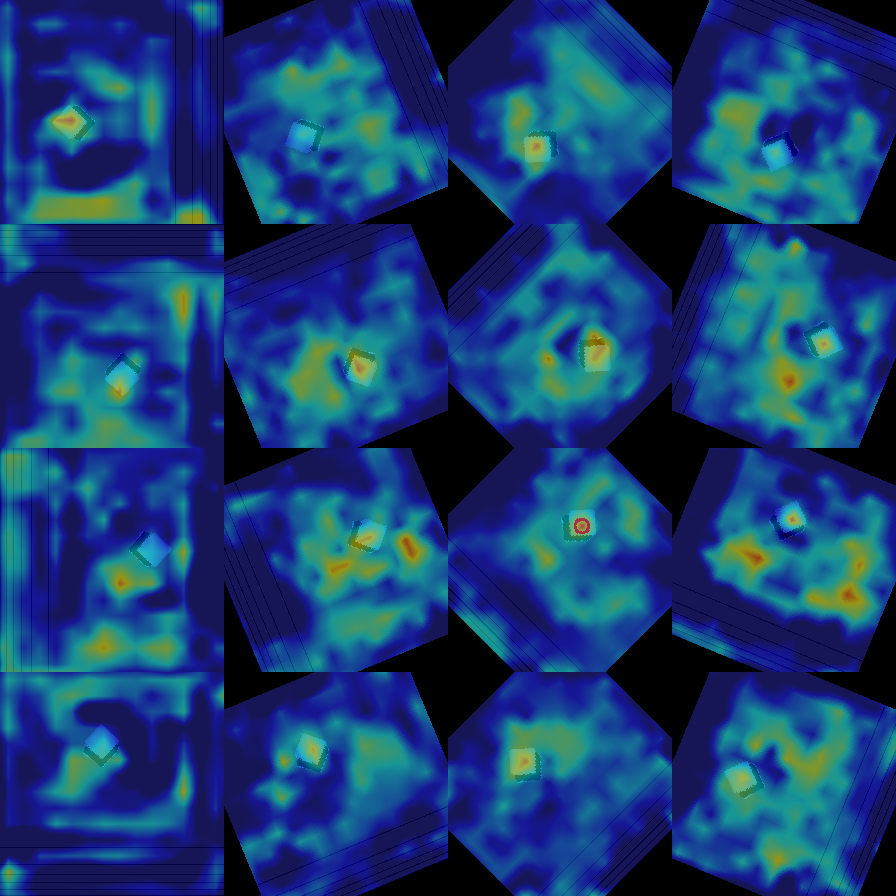
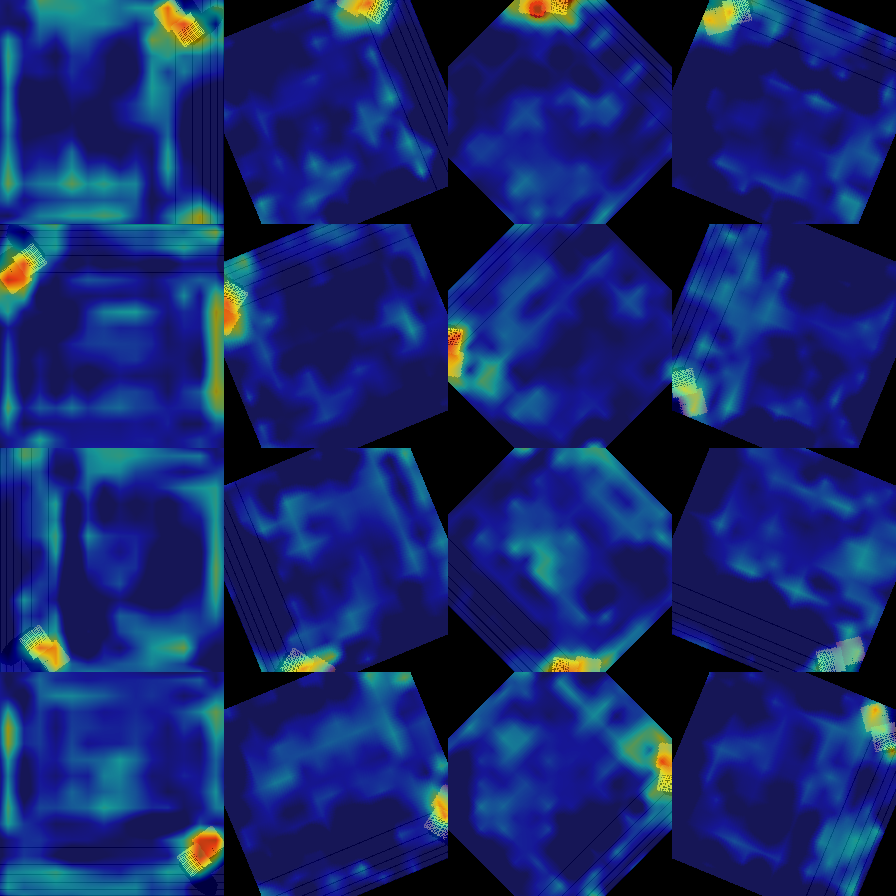
add place in robot.py

diff --git a/robot.py b/robot.py
@@ -76,7 +76,7 @@ class Robot(object):
                 file_content_curr_object = file_content[object_idx].split()
                 self.test_obj_mesh_files.append(os.path.join(self.obj_mesh_dir,file_content_curr_object[0]))
                 self.test_obj_mesh_colors.append([float(file_content_curr_object[1]),float(file_content_curr_object[2]),float(file_content_curr_object[3])])
-                self.test_obj_positions.append([float(file_content_curr_object[4]),float(file_content_curr_object[5]),float(file_content_curr_object[6])])
+                self.test_obj_positions.append([float(file_content_curr_object[4]),float(file_content_curr_object[5]),3.21023232320e-01])
                 self.test_obj_orientations.append([float(file_content_curr_object[7]),float(file_content_curr_object[8]),float(file_content_curr_object[9])])
             file.close()
             self.obj_mesh_color = np.asarray(self.test_obj_mesh_colors)
@@ -145,10 +145,8 @@ class Robot(object):
         vrep.simxStopSimulation(self.sim_client, vrep.simx_opmode_blocking)
         vrep.simxStartSimulation(self.sim_client, vrep.simx_opmode_blocking)
         sim_ret, self.RG2_tip_handle = vrep.simxGetObjectHandle(self.sim_client, 'UR5_tip', vrep.simx_opmode_blocking)
-        print(1)
         sim_ret, gripper_position = vrep.simxGetObjectPosition(self.sim_client, self.RG2_tip_handle, -1, vrep.simx_opmode_blocking)
-        print(2)
-        while gripper_position[2] > 0.8: # V-REP bug requiring multiple starts and stops to restart
+        while gripper_position[2] > 0.7: # V-REP bug requiring multiple starts and stops to restart
             vrep.simxStopSimulation(self.sim_client, vrep.simx_opmode_blocking)
             vrep.simxStartSimulation(self.sim_client, vrep.simx_opmode_blocking)
             time.sleep(1)
@@ -445,6 +443,73 @@ class Robot(object):
             grasped_object_ind = np.argmax(object_positions)
             grasped_object_handle = self.object_handles[grasped_object_ind]
             vrep.simxSetObjectPosition(self.sim_client,grasped_object_handle,-1,(-0.55, 1.5 + 0.01*float(grasped_object_ind), 0.1),vrep.simx_opmode_blocking)
+
+        return grasp_success
+
+    def dev_grasp_with_place(self, position, heightmap_rotation_angle, workspace_limits):
+        print('Executing: grasp at (%f, %f, %f)' % (position[0], position[1], position[2]))
+
+
+        # Compute tool orientation from heightmap rotation angle
+        tool_rotation_angle = (heightmap_rotation_angle % np.pi) - np.pi/2
+
+        # Avoid collision with floor
+        position = np.asarray(position).copy()
+        position[2] = max(position[2] - 0.04, workspace_limits[2][0] + 0.02)
+
+        # Move gripper to location above grasp target
+        grasp_location_margin = 0.15
+        # sim_ret, UR5_target_handle = vrep.simxGetObjectHandle(self.sim_client,'UR5_target',vrep.simx_opmode_blocking)
+        location_above_grasp_target = (position[0], position[1], position[2] + grasp_location_margin)
+
+        # Compute gripper position and linear movement increments
+        tool_position = location_above_grasp_target
+        sim_ret, UR5_target_position = vrep.simxGetObjectPosition(self.sim_client, self.UR5_target_handle,-1,vrep.simx_opmode_blocking)
+        move_direction = np.asarray([tool_position[0] - UR5_target_position[0], tool_position[1] - UR5_target_position[1], tool_position[2] - UR5_target_position[2]])
+        move_magnitude = np.linalg.norm(move_direction)
+        move_step = 0.05*move_direction/move_magnitude
+        num_move_steps = int(np.floor(move_direction[0]/move_step[0]))
+
+
+        # Compute gripper orientation and rotation increments
+        sim_ret, gripper_orientation = vrep.simxGetObjectOrientation(self.sim_client, self.UR5_target_handle, -1, vrep.simx_opmode_blocking)
+        rotation_step = 0.3 if (tool_rotation_angle - gripper_orientation[1] > 0) else -0.3
+        num_rotation_steps = int(np.floor((tool_rotation_angle - gripper_orientation[1])/rotation_step))
+
+        # Simultaneously move and rotate gripper
+        for step_iter in range(max(num_move_steps, num_rotation_steps)):
+            vrep.simxSetObjectPosition(self.sim_client,self.UR5_target_handle,-1,(UR5_target_position[0] + move_step[0]*min(step_iter,num_move_steps), UR5_target_position[1] + move_step[1]*min(step_iter,num_move_steps), UR5_target_position[2] + move_step[2]*min(step_iter,num_move_steps)),vrep.simx_opmode_blocking)
+            vrep.simxSetObjectOrientation(self.sim_client, self.UR5_target_handle, -1, (np.pi/2, gripper_orientation[1] + rotation_step*min(step_iter,num_rotation_steps), np.pi/2), vrep.simx_opmode_blocking)
+        vrep.simxSetObjectPosition(self.sim_client,self.UR5_target_handle,-1,(tool_position[0],tool_position[1],tool_position[2]),vrep.simx_opmode_blocking)
+        vrep.simxSetObjectOrientation(self.sim_client, self.UR5_target_handle, -1, (np.pi/2, tool_rotation_angle, np.pi/2), vrep.simx_opmode_blocking)
+
+        # Ensure gripper is open
+        self.open_gripper()
+
+        # Approach grasp target
+        self.move_to(position, None)
+
+        # Close gripper to grasp target
+        gripper_full_closed = self.close_gripper()
+
+        # Move gripper to location above grasp target
+        self.move_to(location_above_grasp_target, None)
+
+
+        # Check if grasp is successful
+        gripper_full_closed = self.close_gripper()
+        grasp_success = not gripper_full_closed
+
+        # Move the grasped object elsewhere
+        if grasp_success:
+            drop_x = (self.workspace_limits[0][1] - self.workspace_limits[0][0] - 0.1) * np.random.random_sample() + \
+                     self.workspace_limits[0][0] + 0
+            drop_y = (self.workspace_limits[1][1] - self.workspace_limits[1][0] - 0.1) * np.random.random_sample() + \
+                     self.workspace_limits[1][0] + 0
+            object_position = [drop_x, drop_y, 0.31]
+
+            self.place(object_position,0,workspace_limits)
+
 
         return grasp_success
 

diff --git a/main.py b/main.py
@@ -190,7 +190,11 @@ def main(args):
                     nonlocal_variables['push_success'] = robot.push(primitive_position, best_rotation_angle, workspace_limits)
                     print('Push successful: %r' % (nonlocal_variables['push_success']))
                 elif nonlocal_variables['primitive_action'] == 'grasp':
-                    nonlocal_variables['grasp_success'] = robot.grasp(primitive_position, best_rotation_angle, workspace_limits)
+                    if is_testing:
+                        nonlocal_variables['grasp_success'] = robot.dev_grasp_with_place(primitive_position, best_rotation_angle,
+                                                                          workspace_limits)
+                    else:
+                        nonlocal_variables['grasp_success'] = robot.grasp(primitive_position, best_rotation_angle, workspace_limits)
                     print('Grasp successful: %r' % (nonlocal_variables['grasp_success']))
 
                 nonlocal_variables['executing_action'] = False
